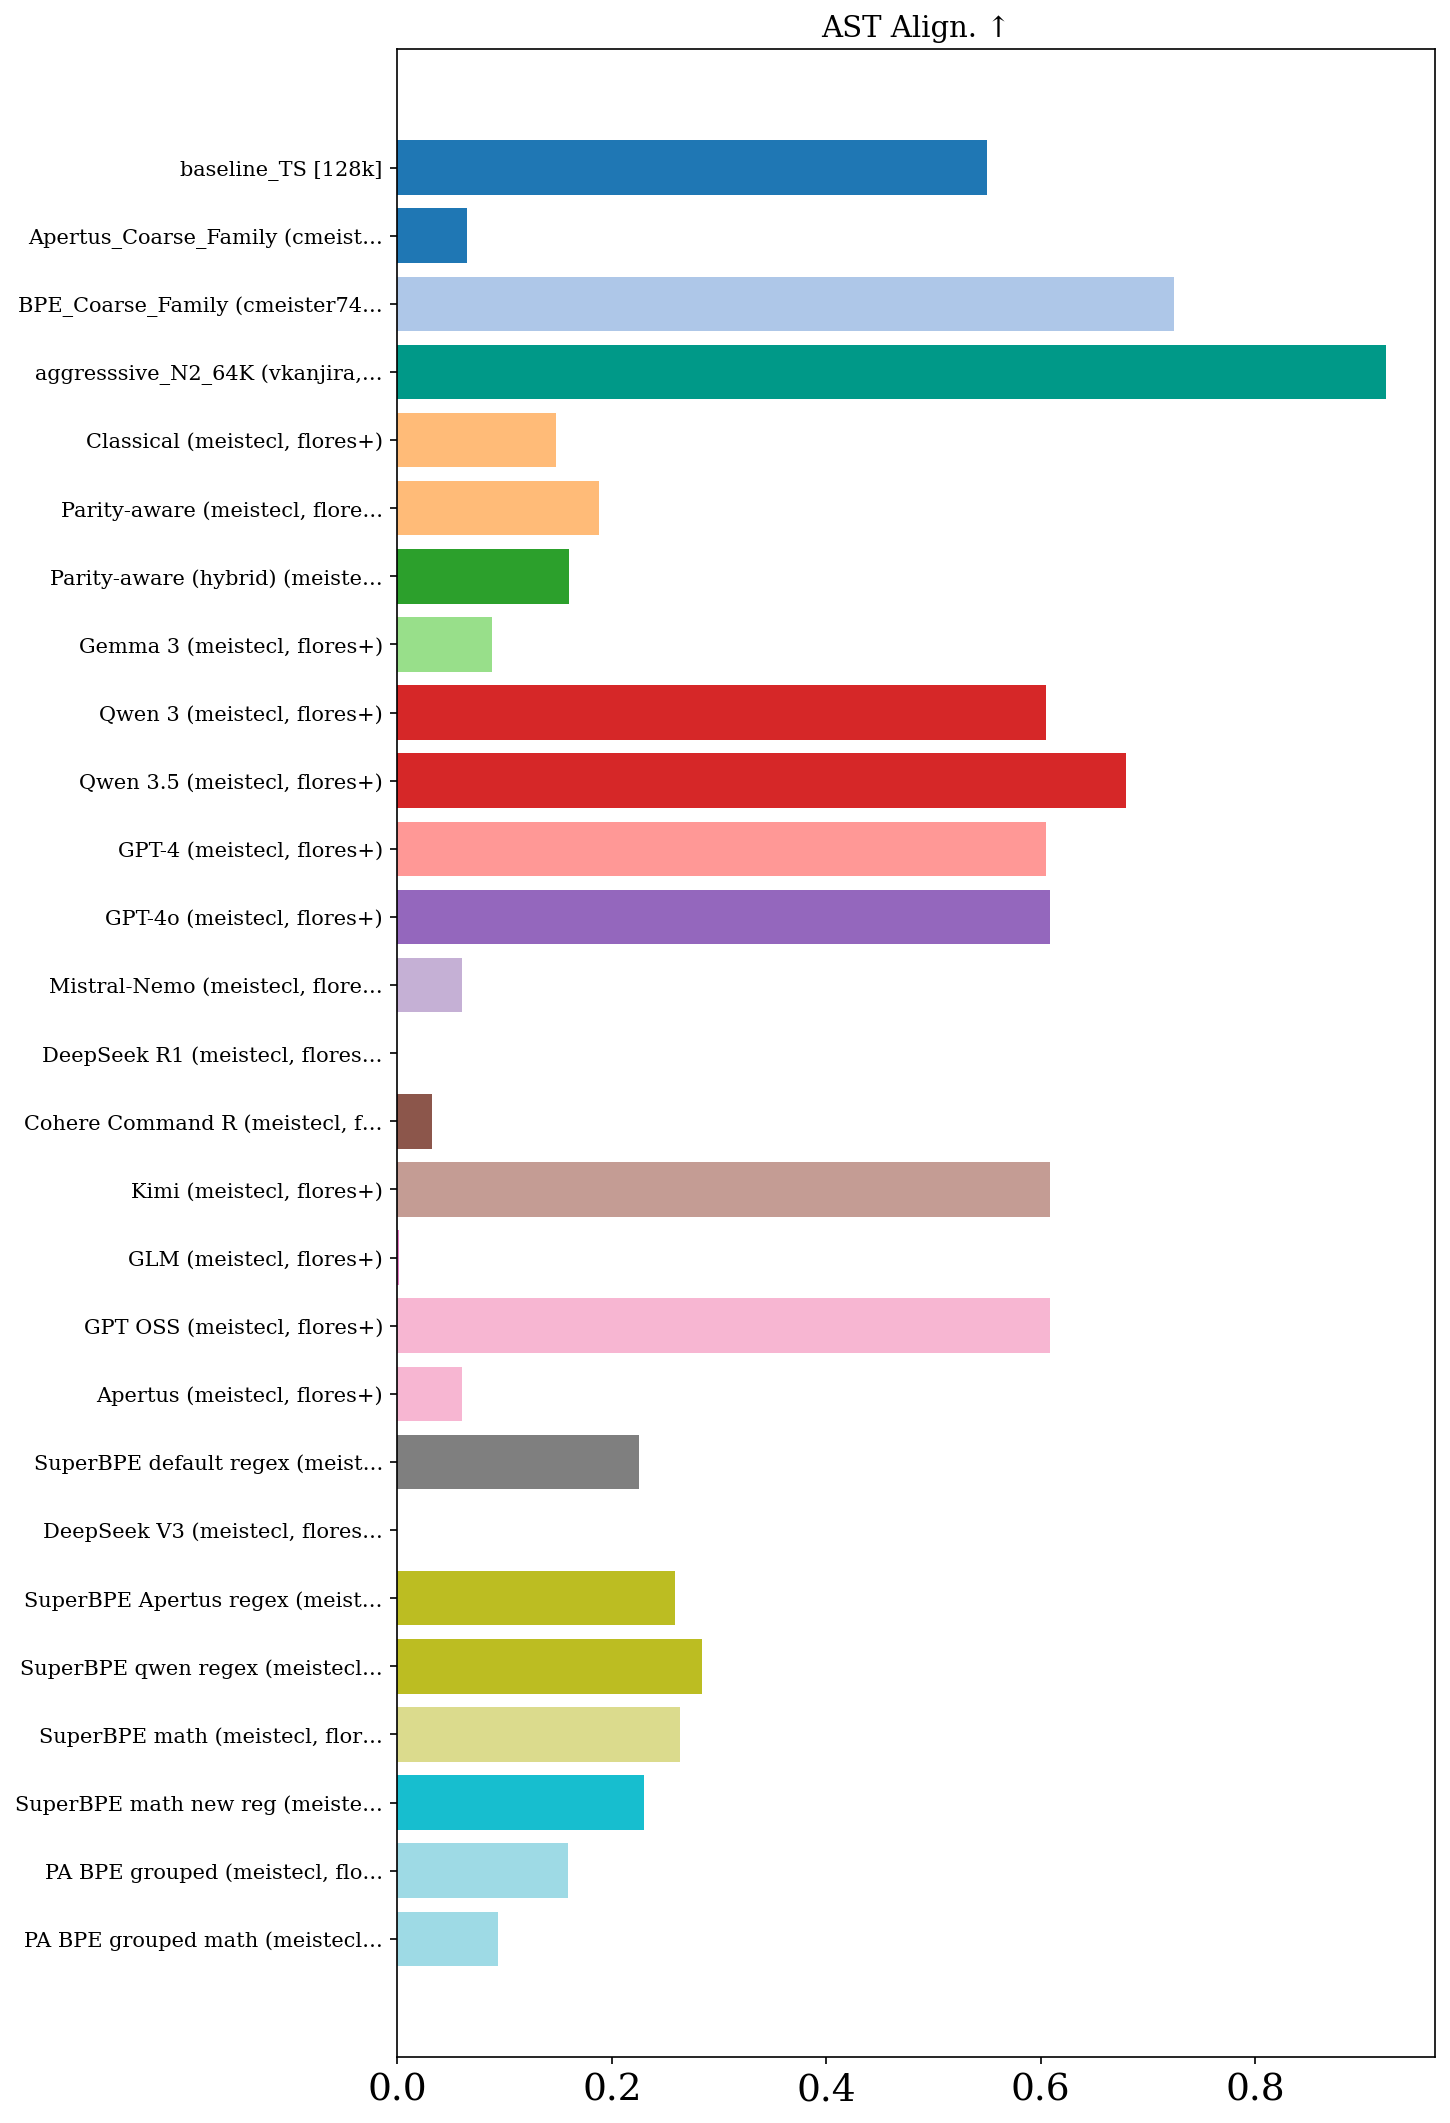
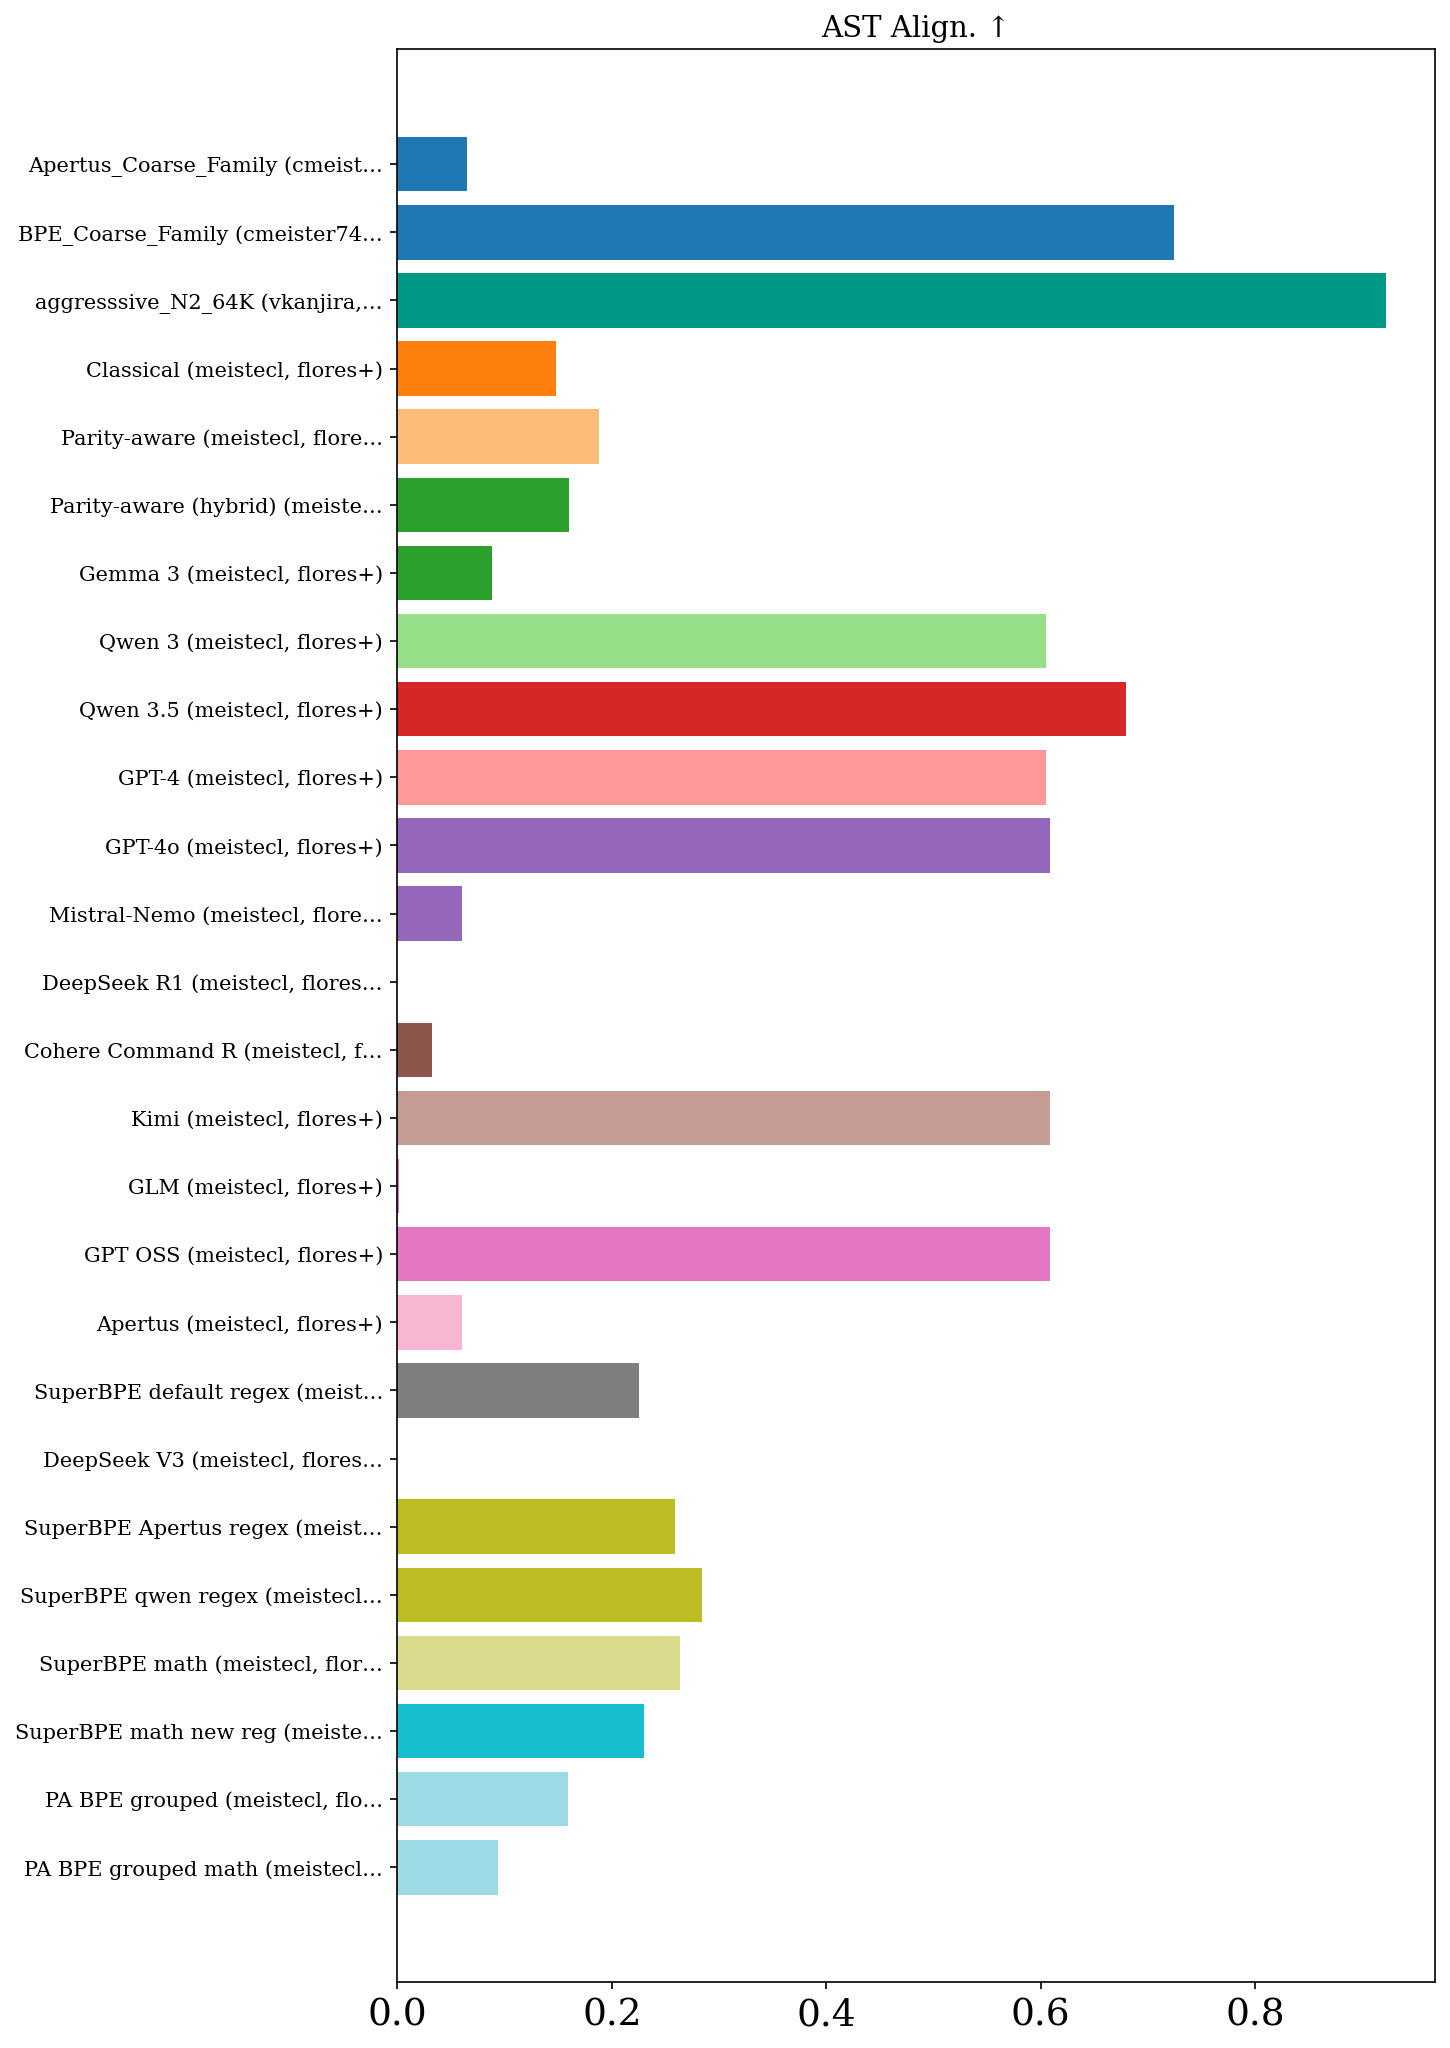
Remove results for user 'vani.kanjirangat@supsi.ch' from RESULTS_flores+_lines.md

diff --git a/RESULTS_flores+_lines.md b/RESULTS_flores+_lines.md
@@ -1,35 +1,34 @@
 # Tokenizer Evaluation Results
 
-_Last updated: 2026-06-01 15:30:22_
+_Last updated: 2026-06-01 15:31:55_
 
-| Tokenizer | Vocab Size | Fertility ↓ | Compression Rate ↑ | Vocab Util. ↑ | Avg Token Rank ↓ | Gini ↓ | Bigram Ent. ↑ | 3-Digit Align. F1 ↑ | Op. Isolation ↑ | AST Align. ↑ | Ident. Frag. ↓ | Depth Corr. ↑ | Pat. Stability ↑ | Bound. Cross ↓ | Char Split ↓ | CER ↓ | WS Fidelity ↑ | Enc. ms/sample ↓ | Languages | Dataset | User | Date |
+| Tokenizer | Vocab Size | Fertility | Compression Rate | Vocab Util. | Avg Token Rank | Gini | Bigram Ent. | 3-Digit Align. F1 | Op. Isolation | AST Align. | Ident. Frag. | Depth Corr. | Pat. Stability | Bound. Cross | Char Split | CER | WS Fidelity | Enc. ms/sample | Languages | Dataset | User | Date |
 | --- | --- | --- | --- | --- | --- | --- | --- | --- | --- | --- | --- | --- | --- | --- | --- | --- | --- | --- | --- | --- | --- | --- |
-| baseline_TS [128k] | 128,000 | 47.055 | 0.021 | 0.667 | 8526.5 | 0.107 | **0.894** | 0.659 | 0.576 | 0.550 | 0.733 | **0.949** | 0.481 | 0.0267 | 0.0255 | 0.0008 | **1.000** | **0.12** | 92 | flores+ | vani.kanjirangat@supsi.ch | 2026-06-01 |
-| baseline [128k] | 128,000 | 49.076 | 0.020 | 0.566 | 7214.5 | 0.146 | 0.846 | 0.750 | 0.393 | --- | --- | --- | --- | 0.0296 | 0.0257 | **0.0005** | 1.000 | 0.17 | 92 | flores+ | dkletz | 2026-05-14 |
+| baseline [128k] | 128,000 | 49.076 | 0.020 | 0.566 | 7214.5 | 0.146 | 0.846 | 0.750 | 0.393 | --- | --- | --- | --- | 0.0296 | 0.0257 | 0.0005 | 1.000 | 0.17 | 92 | flores+ | dkletz | 2026-05-14 |
 | Apertus_Coarse_Family (cmeister747, flores+) | 131,072 | 67.487 | 0.015 | 0.560 | 4016.1 | 0.302 | --- | --- | 0.249 | 0.065 | 0.033 | -0.039 | 0.997 | 0.0096 | 0.1499 | --- | --- | --- | 92 | flores+ | cmeister747 | 2026-03-06 |
 | BPE_Coarse_Family (cmeister747, flores+) | 131,072 | 49.707 | 0.020 | 0.543 | 7585.0 | 0.096 | --- | 0.335 | 0.494 | 0.724 | 0.434 | -0.039 | 0.997 | 0.0068 | 0.0111 | --- | --- | --- | 92 | flores+ | cmeister747 | 2026-03-06 |
-| aggresssive_N2_64K (vkanjira, flores+) | 60,682 | 67.253 | 0.018 | 0.354 | 893.1 | 0.129 | --- | 0.681 | 0.077 | **0.922** | 0.561 | --- | **1.000** | **0.0000** | 0.0049 | --- | --- | --- | 92 | flores+ | vkanjira | 2026-03-06 |
-| Boundless pairwise aggressive n2 (dkletz, flores+) | 5,033 | 88.335 | 0.013 | 0.644 | **108.7** | 0.082 | --- | --- | 0.047 | --- | --- | --- | --- | --- | --- | --- | --- | --- | 92 | flores+ | dkletz | 2026-02-22 |
+| aggresssive_N2_64K (vkanjira, flores+) | 60,682 | 67.253 | 0.018 | 0.354 | 893.1 | 0.129 | --- | 0.681 | 0.077 | 0.922 | 0.561 | --- | 1.000 | 0.0000 | 0.0049 | --- | --- | --- | 92 | flores+ | vkanjira | 2026-03-06 |
+| Boundless pairwise aggressive n2 (dkletz, flores+) | 5,033 | 88.335 | 0.013 | 0.644 | 108.7 | 0.082 | --- | --- | 0.047 | --- | --- | --- | --- | --- | --- | --- | --- | --- | 92 | flores+ | dkletz | 2026-02-22 |
 | Classical (meistecl, flores+) | 128,004 | 59.463 | 0.022 | 0.682 | 4663.5 | 0.246 | --- | 0.789 | 0.294 | 0.148 | 0.055 | -0.049 | 0.991 | 0.0574 | 0.1337 | --- | --- | --- | 92 | flores+ | meistecl | 2026-03-03 |
-| Parity-aware (meistecl, flores+) | 128,004 | 59.101 | 0.022 | **0.691** | 4456.6 | 0.220 | --- | 0.736 | 0.294 | 0.188 | 0.082 | -0.049 | 0.991 | 0.0440 | 0.1106 | --- | --- | --- | 92 | flores+ | meistecl | 2026-03-03 |
+| Parity-aware (meistecl, flores+) | 128,004 | 59.101 | 0.022 | 0.691 | 4456.6 | 0.220 | --- | 0.736 | 0.294 | 0.188 | 0.082 | -0.049 | 0.991 | 0.0440 | 0.1106 | --- | --- | --- | 92 | flores+ | meistecl | 2026-03-03 |
 | Parity-aware (hybrid) (meistecl, flores+) | 128,004 | 58.267 | 0.022 | 0.691 | 4640.4 | 0.223 | --- | 0.771 | 0.294 | 0.160 | 0.066 | -0.049 | 0.991 | 0.0450 | 0.1107 | --- | --- | --- | 92 | flores+ | meistecl | 2026-03-03 |
-| Gemma 3 (meistecl, flores+) | 262,145 | **46.221** | 0.026 | 0.447 | 9461.6 | 0.126 | --- | 0.451 | 0.509 | 0.088 | 0.030 | -0.091 | 0.965 | 0.0293 | 0.0110 | --- | --- | --- | 92 | flores+ | meistecl | 2026-03-03 |
+| Gemma 3 (meistecl, flores+) | 262,145 | 46.221 | 0.026 | 0.447 | 9461.6 | 0.126 | --- | 0.451 | 0.509 | 0.088 | 0.030 | -0.091 | 0.965 | 0.0293 | 0.0110 | --- | --- | --- | 92 | flores+ | meistecl | 2026-03-03 |
 | Qwen 3 (meistecl, flores+) | 151,669 | 75.897 | 0.020 | 0.324 | 1699.6 | 0.312 | --- | 0.451 | 0.966 | 0.605 | 0.383 | -0.037 | 0.994 | 0.0561 | 0.2422 | --- | --- | --- | 92 | flores+ | meistecl | 2026-03-03 |
 | Qwen 3.5 (meistecl, flores+) | 248,077 | 53.347 | 0.024 | 0.387 | 5435.7 | 0.204 | --- | 0.451 | 0.966 | 0.680 | 0.381 | -0.037 | 0.994 | 0.0096 | 0.0352 | --- | --- | --- | 92 | flores+ | meistecl | 2026-03-03 |
 | GPT-4 (meistecl, flores+) | 100,261 | 90.200 | 0.018 | 0.302 | 917.5 | 0.362 | --- | 0.793 | 0.966 | 0.605 | 0.383 | -0.037 | 0.994 | 0.0517 | 0.4671 | --- | --- | --- | 92 | flores+ | meistecl | 2026-03-03 |
-| GPT-4o (meistecl, flores+) | 200,000 | 47.045 | **0.027** | 0.522 | 9529.8 | 0.169 | --- | 0.793 | 0.966 | 0.609 | 0.401 | -0.037 | 0.994 | 0.0078 | 0.0475 | --- | --- | --- | 92 | flores+ | meistecl | 2026-03-03 |
+| GPT-4o (meistecl, flores+) | 200,000 | 47.045 | 0.027 | 0.522 | 9529.8 | 0.169 | --- | 0.793 | 0.966 | 0.609 | 0.401 | -0.037 | 0.994 | 0.0078 | 0.0475 | --- | --- | --- | 92 | flores+ | meistecl | 2026-03-03 |
 | Mistral-Nemo (meistecl, flores+) | 131,072 | 64.763 | 0.023 | 0.564 | 4318.1 | 0.308 | --- | 0.451 | 0.496 | 0.060 | 0.037 | -0.037 | 0.994 | 0.0171 | 0.1525 | --- | --- | --- | 92 | flores+ | meistecl | 2026-03-03 |
 | DeepSeek R1 (meistecl, flores+) | 128,815 | 62.674 | 0.021 | 0.418 | 2864.6 | 0.229 | --- | 0.793 | 0.496 | 0.000 | --- | -0.037 | 0.994 | 0.0509 | 0.0103 | --- | --- | --- | 92 | flores+ | meistecl | 2026-03-03 |
 | Cohere Command R (meistecl, flores+) | 255,029 | 75.168 | 0.022 | 0.433 | 3397.6 | 0.371 | --- | 0.451 | 0.509 | 0.032 | 0.016 | -0.037 | 0.994 | 0.0474 | 0.0008 | --- | --- | --- | 92 | flores+ | meistecl | 2026-03-03 |
 | Kimi (meistecl, flores+) | 163,840 | 62.820 | 0.020 | 0.244 | 2283.0 | 0.199 | --- | 0.793 | 0.966 | 0.609 | 0.408 | -0.037 | 0.994 | 0.0498 | 0.1139 | --- | --- | --- | 92 | flores+ | meistecl | 2026-03-03 |
-| GLM (meistecl, flores+) | 151,343 | 86.320 | 0.019 | 0.364 | 1631.6 | 0.372 | --- | 0.644 | 0.000 | 0.001 | **0.000** | 0.000 | 1.000 | 0.0000 | **0.0000** | --- | --- | --- | 92 | flores+ | meistecl | 2026-03-03 |
+| GLM (meistecl, flores+) | 151,343 | 86.320 | 0.019 | 0.364 | 1631.6 | 0.372 | --- | 0.644 | 0.000 | 0.001 | 0.000 | 0.000 | 1.000 | 0.0000 | 0.0000 | --- | --- | --- | 92 | flores+ | meistecl | 2026-03-03 |
 | GPT OSS (meistecl, flores+) | 200,019 | 47.045 | 0.027 | 0.521 | 9529.8 | 0.169 | --- | 0.793 | 0.966 | 0.609 | 0.401 | -0.037 | 0.994 | 0.0078 | 0.0475 | --- | --- | --- | 92 | flores+ | meistecl | 2026-03-03 |
 | Apertus (meistecl, flores+) | 131,072 | 64.763 | 0.023 | 0.564 | 4318.1 | 0.308 | --- | 0.451 | 0.496 | 0.060 | 0.037 | -0.037 | 0.994 | 0.0171 | 0.1525 | --- | --- | --- | 92 | flores+ | meistecl | 2026-03-03 |
 | SuperBPE default regex (meistecl, flores+) | 130,000 | 46.224 | 0.025 | 0.553 | 9333.4 | 0.106 | --- | 0.793 | 0.407 | 0.225 | 0.028 | -0.037 | 0.994 | 0.0206 | 0.0249 | --- | --- | --- | 92 | flores+ | meistecl | 2026-03-03 |
 | DeepSeek V3 (meistecl, flores+) | 128,815 | 62.674 | 0.021 | 0.418 | 2864.6 | 0.229 | --- | 0.793 | 0.496 | 0.000 | --- | -0.037 | 0.994 | 0.0509 | 0.0103 | --- | --- | --- | 92 | flores+ | meistecl | 2026-03-03 |
-| SuperBPE Apertus regex (meistecl, flores+) | 130,000 | 52.158 | 0.024 | 0.593 | 7591.0 | 0.192 | --- | 0.793 | **0.992** | 0.259 | 0.029 | -0.037 | 0.994 | 0.0085 | 0.0139 | --- | --- | --- | 92 | flores+ | meistecl | 2026-03-03 |
+| SuperBPE Apertus regex (meistecl, flores+) | 130,000 | 52.158 | 0.024 | 0.593 | 7591.0 | 0.192 | --- | 0.793 | 0.992 | 0.259 | 0.029 | -0.037 | 0.994 | 0.0085 | 0.0139 | --- | --- | --- | 92 | flores+ | meistecl | 2026-03-03 |
 | SuperBPE qwen regex (meistecl, flores+) | 130,000 | 48.526 | 0.024 | 0.572 | 9524.6 | 0.097 | --- | 0.451 | 0.407 | 0.284 | 0.024 | -0.031 | 0.995 | 0.0292 | 0.0332 | --- | --- | --- | 92 | flores+ | meistecl | 2026-03-03 |
 | SuperBPE math (meistecl, flores+) | 130,000 | 52.985 | 0.024 | 0.543 | 6733.8 | 0.190 | --- | 0.793 | 0.992 | 0.264 | 0.028 | -0.037 | 0.994 | 0.0092 | 0.0126 | --- | --- | --- | 92 | flores+ | meistecl | 2026-03-03 |
-| SuperBPE math new reg (meistecl, flores+) | 130,000 | 46.554 | 0.025 | 0.539 | 8783.4 | 0.112 | --- | **0.891** | 0.263 | 0.230 | 0.027 | -0.037 | 0.994 | 0.0218 | 0.0242 | --- | --- | --- | 92 | flores+ | meistecl | 2026-03-03 |
-| PA BPE grouped (meistecl, flores+) | 120,260 | 47.187 | 0.024 | 0.632 | 8240.1 | **0.064** | --- | 0.722 | 0.294 | 0.159 | 0.067 | -0.049 | 0.991 | 0.0173 | 0.0205 | --- | --- | --- | 92 | flores+ | meistecl | 2026-03-03 |
+| SuperBPE math new reg (meistecl, flores+) | 130,000 | 46.554 | 0.025 | 0.539 | 8783.4 | 0.112 | --- | 0.891 | 0.263 | 0.230 | 0.027 | -0.037 | 0.994 | 0.0218 | 0.0242 | --- | --- | --- | 92 | flores+ | meistecl | 2026-03-03 |
+| PA BPE grouped (meistecl, flores+) | 120,260 | 47.187 | 0.024 | 0.632 | 8240.1 | 0.064 | --- | 0.722 | 0.294 | 0.159 | 0.067 | -0.049 | 0.991 | 0.0173 | 0.0205 | --- | --- | --- | 92 | flores+ | meistecl | 2026-03-03 |
 | PA BPE grouped math (meistecl, flores+) | 128,260 | 47.533 | 0.024 | 0.606 | 8064.2 | 0.074 | --- | 0.451 | 0.496 | 0.094 | 0.050 | -0.037 | 0.994 | 0.0142 | 0.0242 | --- | --- | --- | 92 | flores+ | meistecl | 2026-03-03 |
